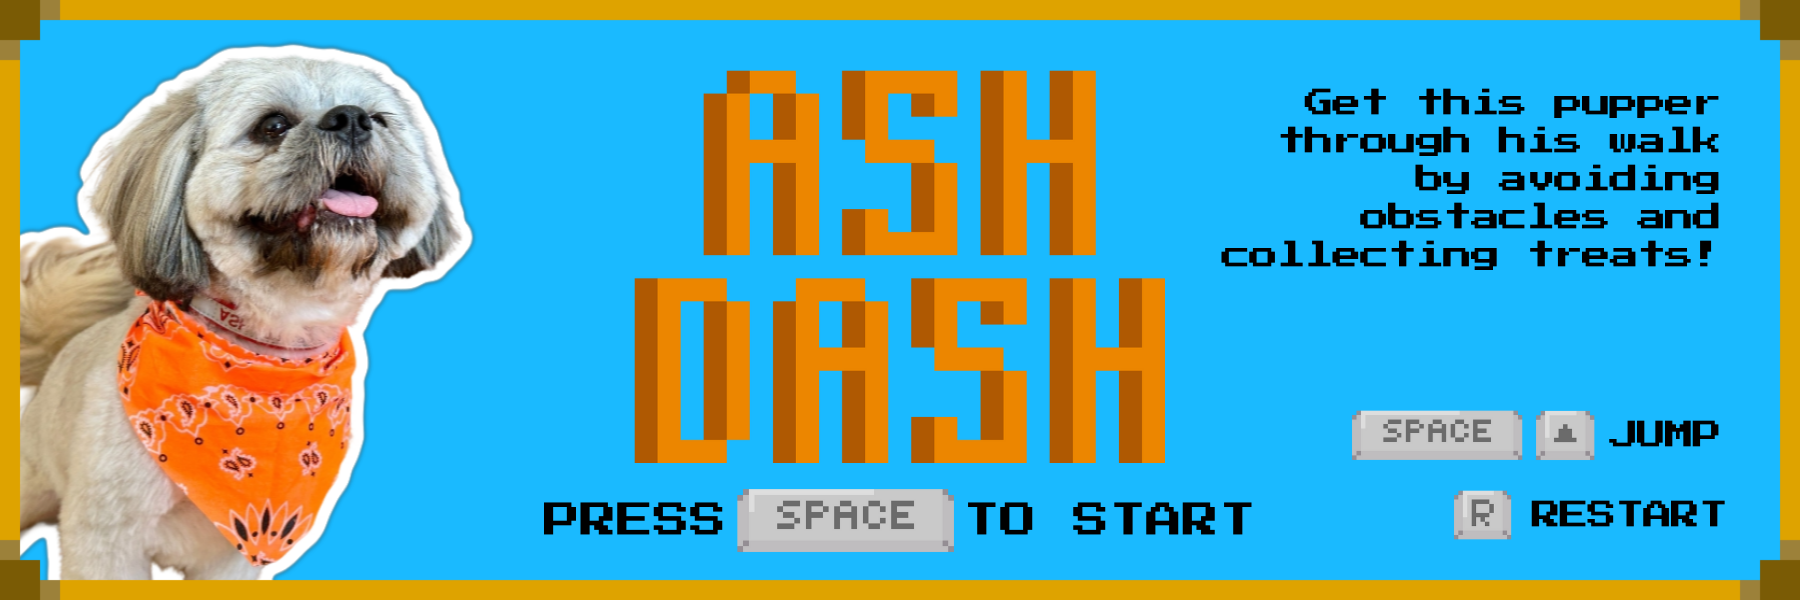
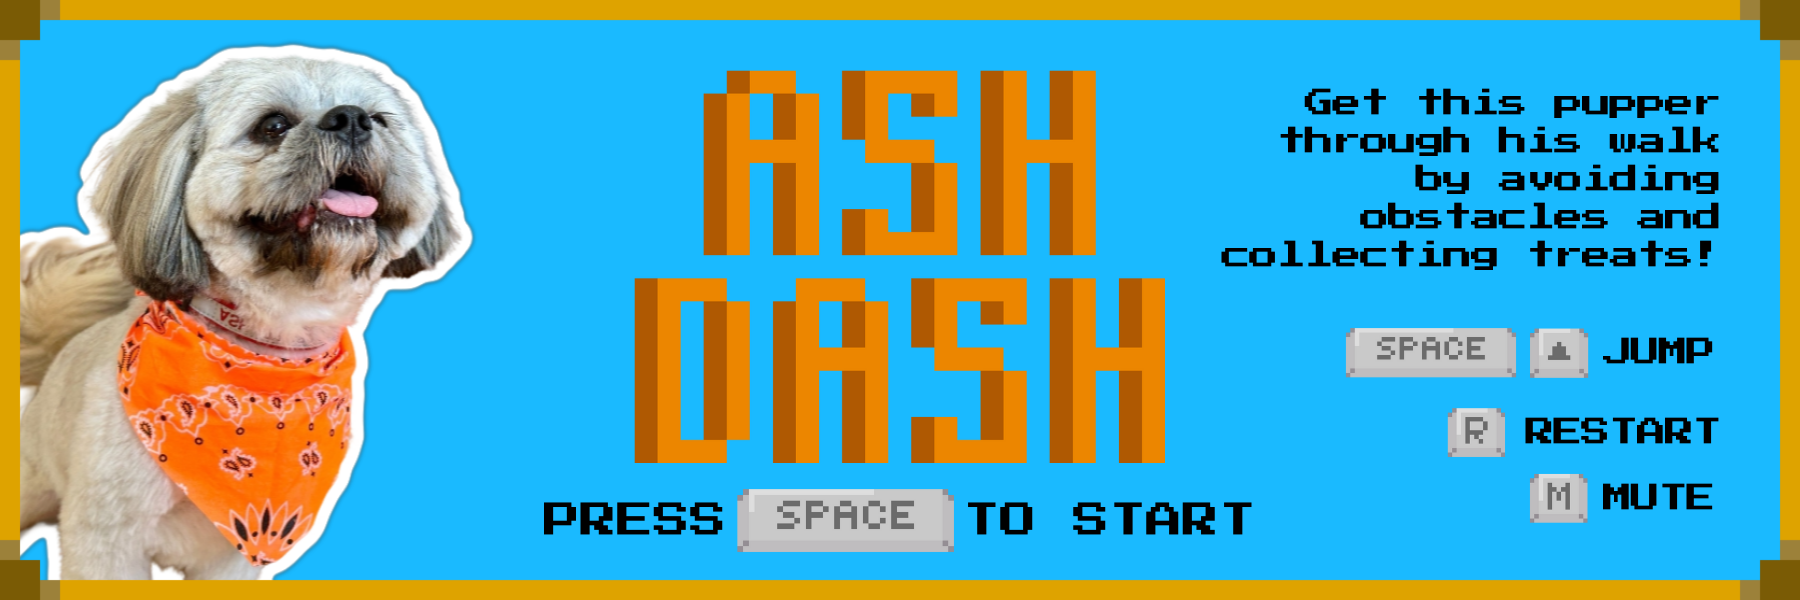
added volume control

Changed region(s): [[0.7467, 0.66, 0.9644, 0.9], [0.7467, 0.54, 0.9644, 0.63]]

diff --git a/app/Components/HomeComponents/Game/game.tsx b/app/Components/HomeComponents/Game/game.tsx
@@ -1,9 +1,11 @@
 "use client";
 import { useEffect, useRef, useState } from "react";
 import Tilt from "react-parallax-tilt";
+import { FaVolumeUp, FaVolumeMute } from "react-icons/fa";
 
 export default function AshDash() {
     const boardRef = useRef<HTMLCanvasElement>(null);
+    const soundButtonRef = useRef<HTMLButtonElement>(null);
 
     let board: any;
     let boardWidth = 900;
@@ -89,15 +91,19 @@ export default function AshDash() {
     let treatTimeoutId: ReturnType<typeof setTimeout> | null = null;
     let cloudTimeoutId: ReturnType<typeof setTimeout> | null = null;
 
-    let velocityX = -6;
+    let velocityX = 5;
     let velocityY = 0;
     let gravity = 0.4;
 
     let gameStarted = false;
-    const [gameState, setGameState] = useState(false);
     let gameOver = false;
     let points = 0;
     let score = 0;
+
+    const [gameState, setGameState] = useState(false);
+    const [soundOn, setSoundOn] = useState(true);
+
+    const soundOnRef = useRef(soundOn);
 
     useEffect(() => {
         if (boardRef.current) {
@@ -125,9 +131,21 @@ export default function AshDash() {
         };
     }, []);
 
+    useEffect(() => {
+        soundOnRef.current = soundOn;
+        if (soundOnRef.current && gameState) {
+            playSound("bgm", 0.05);
+        } else {
+            stopSound("bgm");
+        }
+    }, [soundOn]);
+
     function handleKeyPress(e: KeyboardEvent) {
+        e.preventDefault();
         if (e.code === "KeyR") {
             restartGame();
+        } else if (e.code == "KeyM") {
+            toggleSound();
         } else if (!gameStarted && e.code === "Space") {
             startGame();
         } else {
@@ -139,8 +157,9 @@ export default function AshDash() {
         gameOver = false;
         gameStarted = false;
         setGameState(false);
+        stopSound("bgm");
         score = 0;
-        velocityX = -6;
+        velocityX = -5;
         velocityY = 0;
         ash.x = ashX;
         ash.y = ashY;
@@ -221,7 +240,9 @@ export default function AshDash() {
                 }
                 if (detectCollision(ash, treat)) {
                     points += 1;
-                    playSound("treat", 0.3);
+                    if (soundOnRef.current) {
+                        playSound("treat", 0.15);
+                    }
                     treatsArray.splice(i, 1);
                 }
             }
@@ -235,7 +256,9 @@ export default function AshDash() {
 
                 if (detectCollision(ash, rock)) {
                     gameOver = true;
-                    playSound("end", 0.3);
+                    if (soundOnRef.current) {
+                        playSound("end", 0.15);
+                    }
                     stopSound("bgm");
                     ashImg.src =
                         ash.y == ashY
@@ -280,7 +303,9 @@ export default function AshDash() {
     function startGame() {
         gameStarted = true;
         setGameState(true);
-        playSound("bgm", 0.1);
+        if (soundOnRef.current) {
+            playSound("bgm", 0.05);
+        }
 
         walkFrames = [];
         for (let i = 0; i < 4; i++) {
@@ -495,6 +520,10 @@ export default function AshDash() {
     }
 
     function playSound(name: string, volume: number) {
+        if (!soundOnRef.current) {
+            return;
+        }
+
         const sound = document.getElementById(name) as HTMLAudioElement;
         if (sound && typeof sound.play === "function") {
             sound.currentTime = 0;
@@ -509,6 +538,13 @@ export default function AshDash() {
             sound.pause();
             sound.currentTime = 0;
         }
+    }
+
+    function toggleSound() {
+        setSoundOn((prevSoundOn) => {
+            const newSoundState = !prevSoundOn;
+            return newSoundState;
+        });
     }
 
     return (
@@ -528,6 +564,17 @@ export default function AshDash() {
                     ref={boardRef}
                 ></canvas>
             </Tilt>
+            <div className="w-[900px] flex items-end justify-end text-white text-3xl py-8">
+                <button
+                    onClick={() => {
+                        toggleSound();
+                        soundButtonRef.current?.blur();
+                    }}
+                    ref={soundButtonRef}
+                >
+                    {soundOn ? <FaVolumeUp /> : <FaVolumeMute />}
+                </button>
+            </div>
             <audio id="treat" preload="auto">
                 <source src="/ashdash/audio/treat.mp3" type="audio/mpeg" />
             </audio>
